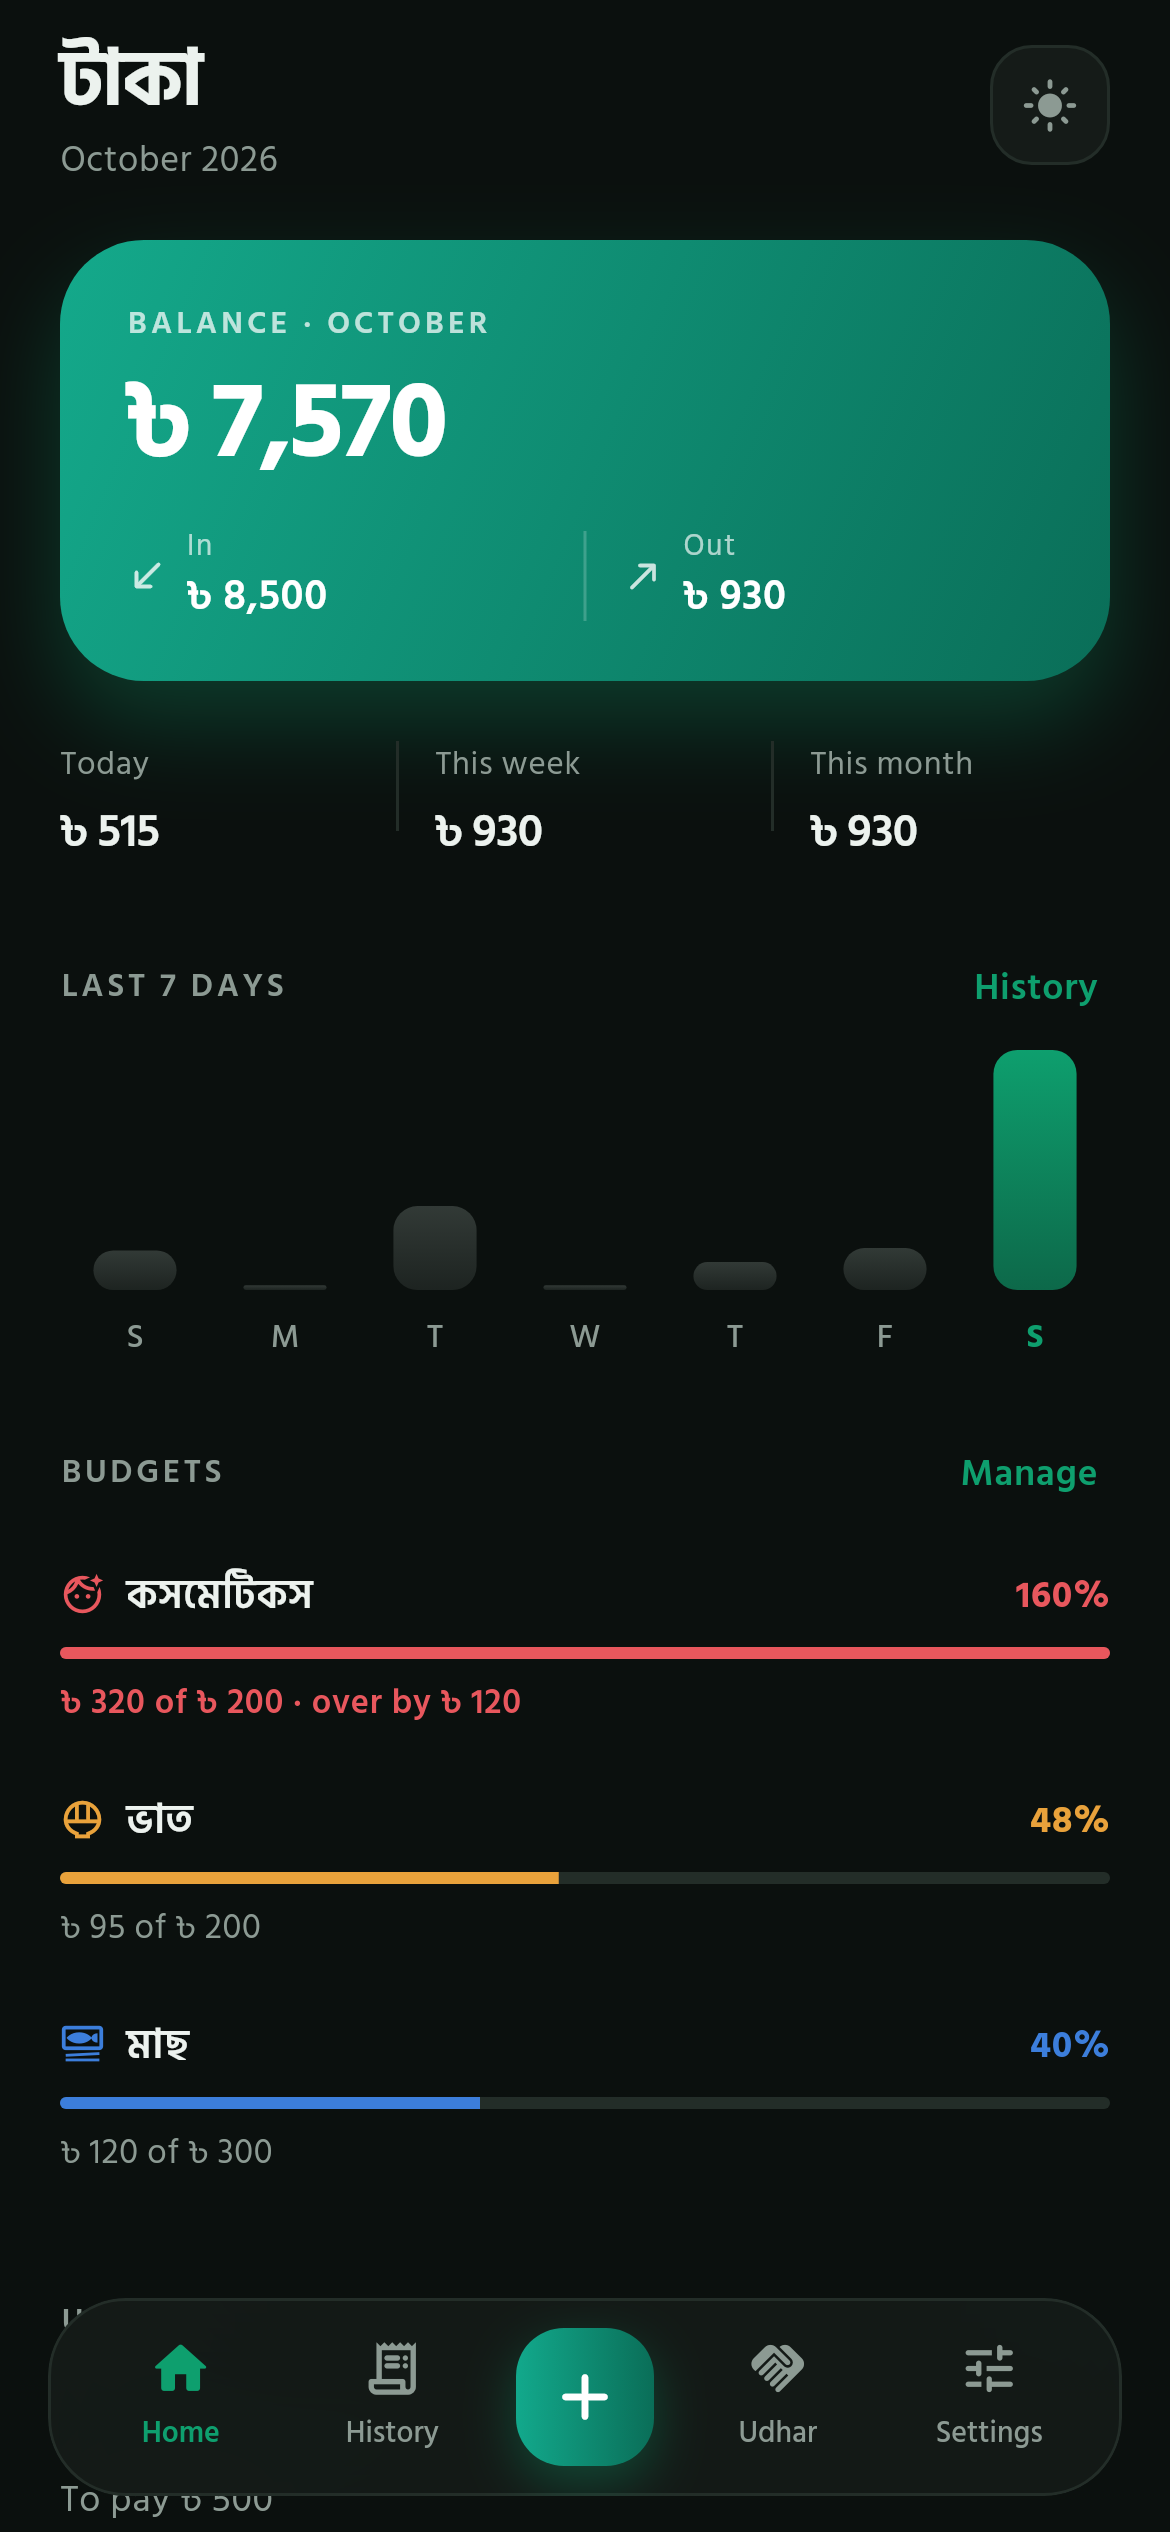
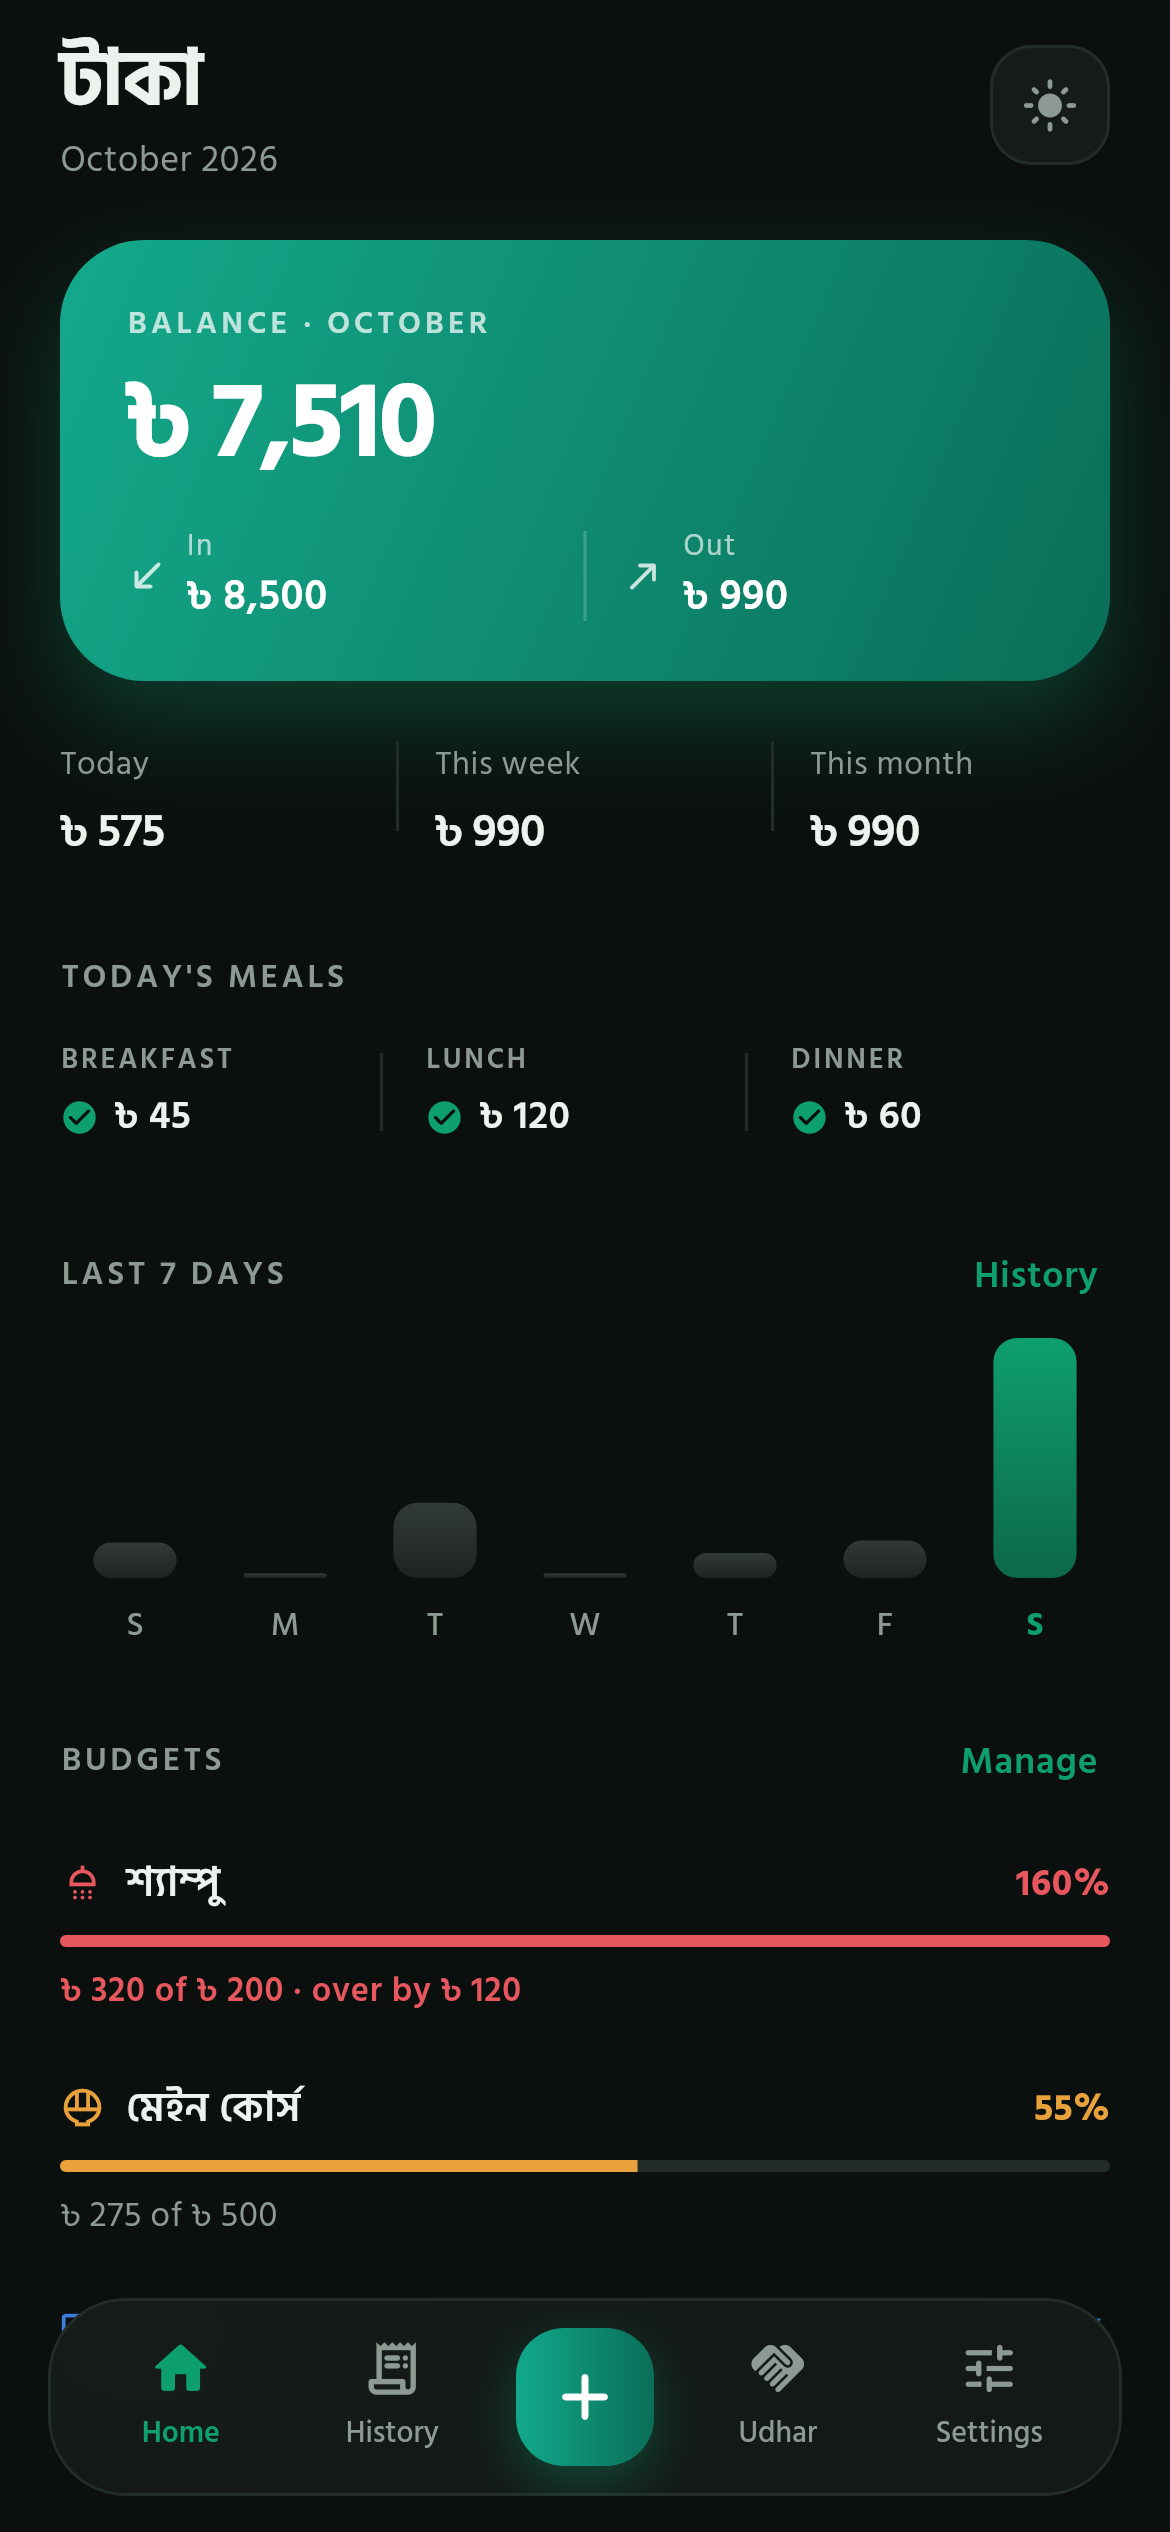
test(goldens): refresh all screenshots, add the About screen
Ten baselines now, one per screen. Regenerated because the add-entry form, home
(meals strip, group budget bars), budgets, categories and history all changed.

files: test/golden_test.dart, test/goldens/*.png, docs/screenshots/*.png

diff --git a/test/golden_test.dart b/test/golden_test.dart
@@ -79,6 +79,18 @@ void main() {
     await _shot(tester, 'budgets');
   });
 
+  testWidgets('10 about', (WidgetTester tester) async {
+    await _render(tester, darkMode: false);
+    await tester.tap(find.byIcon(Icons.tune_rounded));
+    await tester.pumpAndSettle();
+    // The About row lives at the bottom of Settings.
+    await tester.scrollUntilVisible(find.textContaining('Made by'), 220);
+    await tester.pumpAndSettle();
+    await tester.tap(find.textContaining('Made by'));
+    await tester.pumpAndSettle();
+    await _shot(tester, 'about');
+  });
+
   testWidgets('09 categories', (WidgetTester tester) async {
     await _render(tester, darkMode: false);
     await tester.tap(find.byIcon(Icons.tune_rounded));
